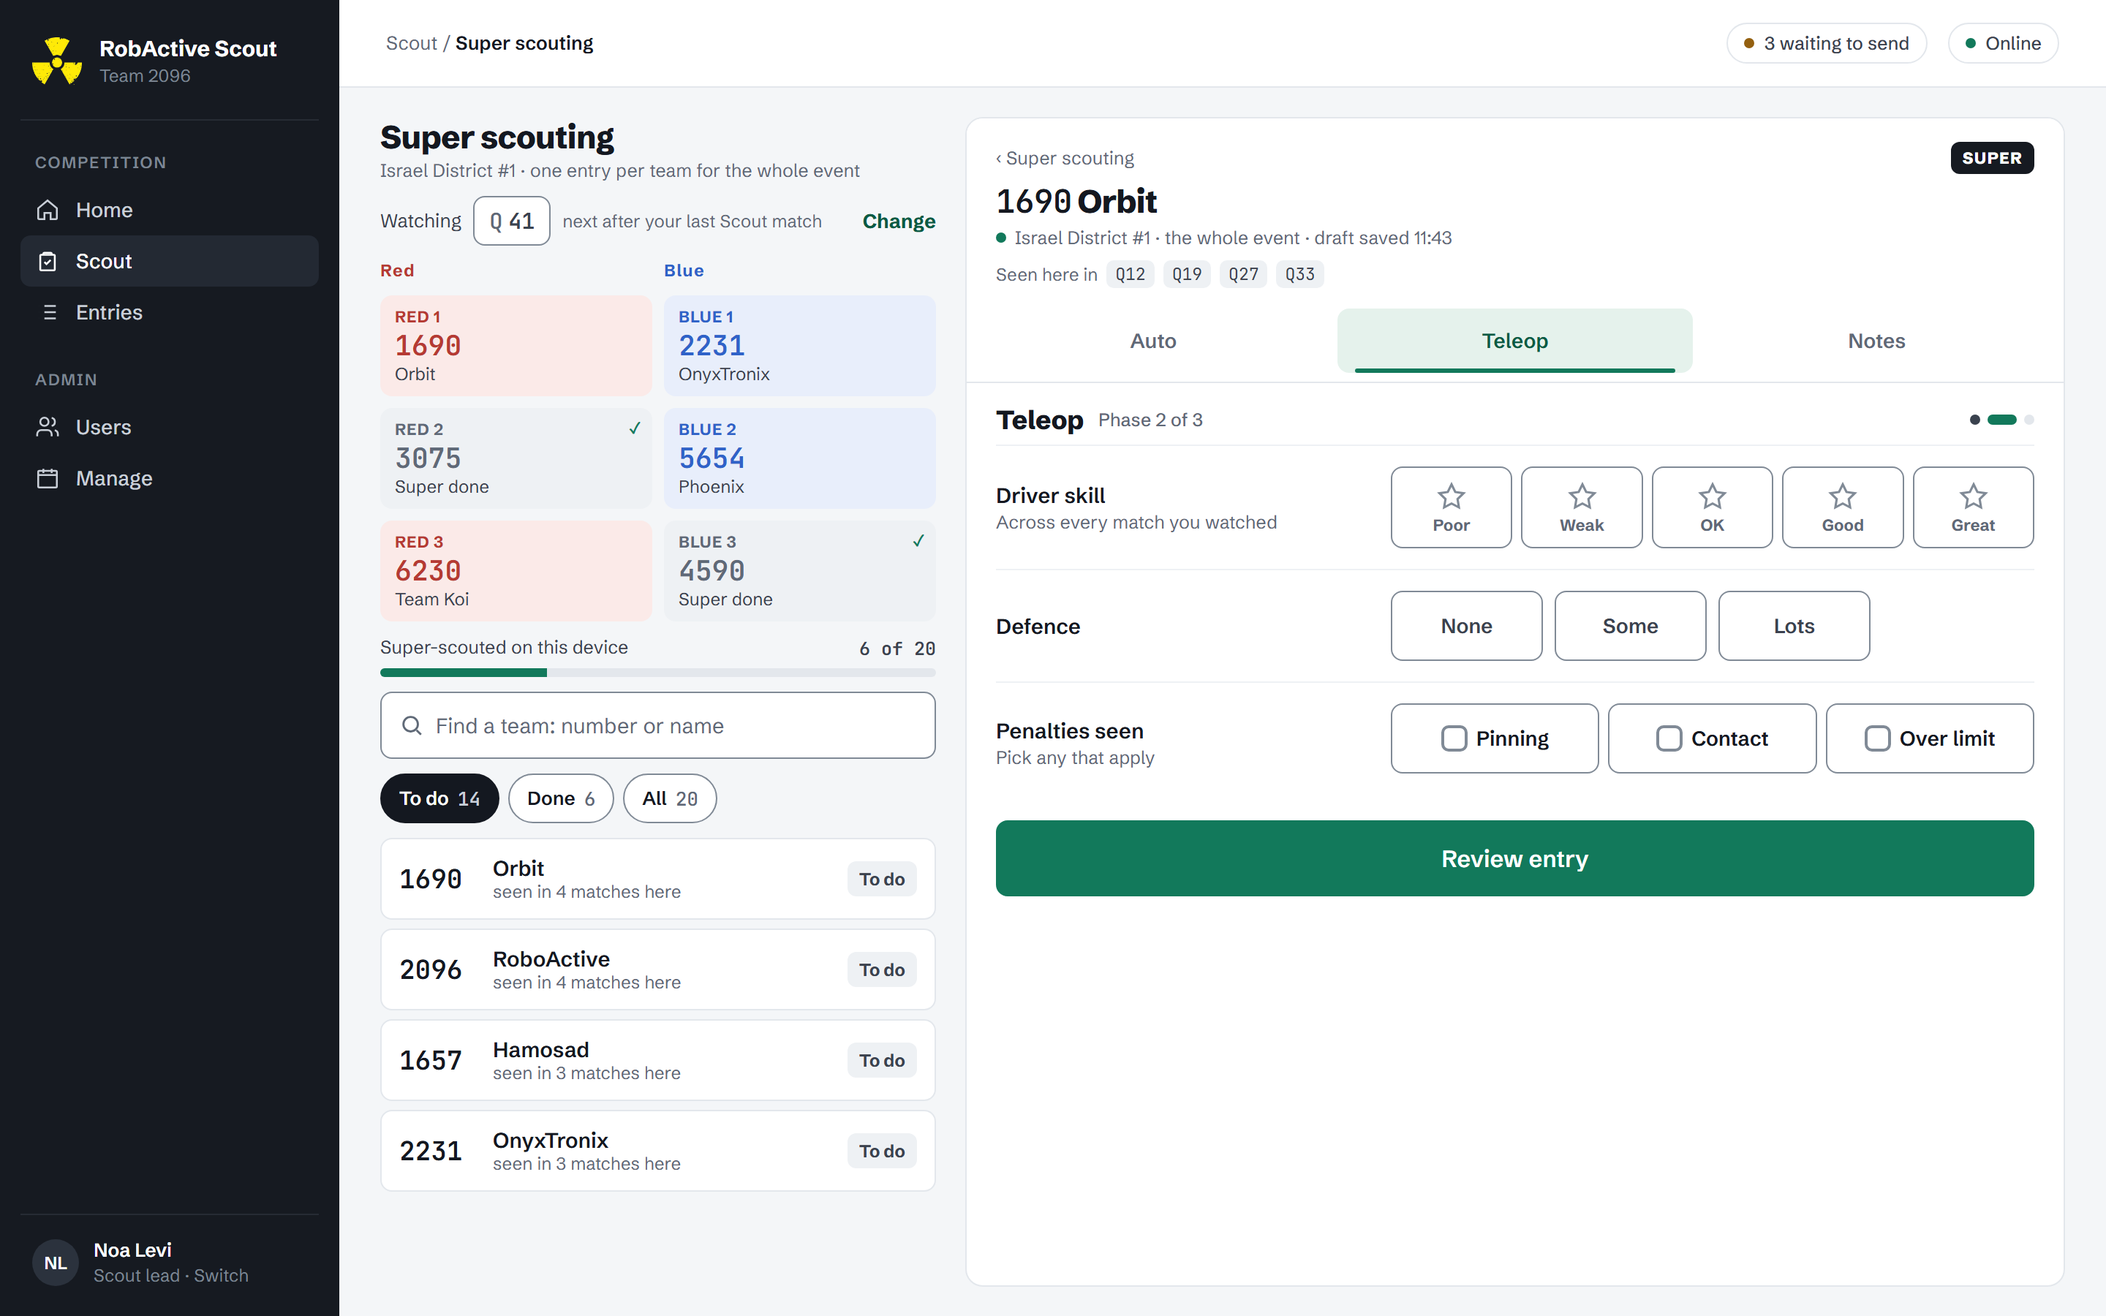
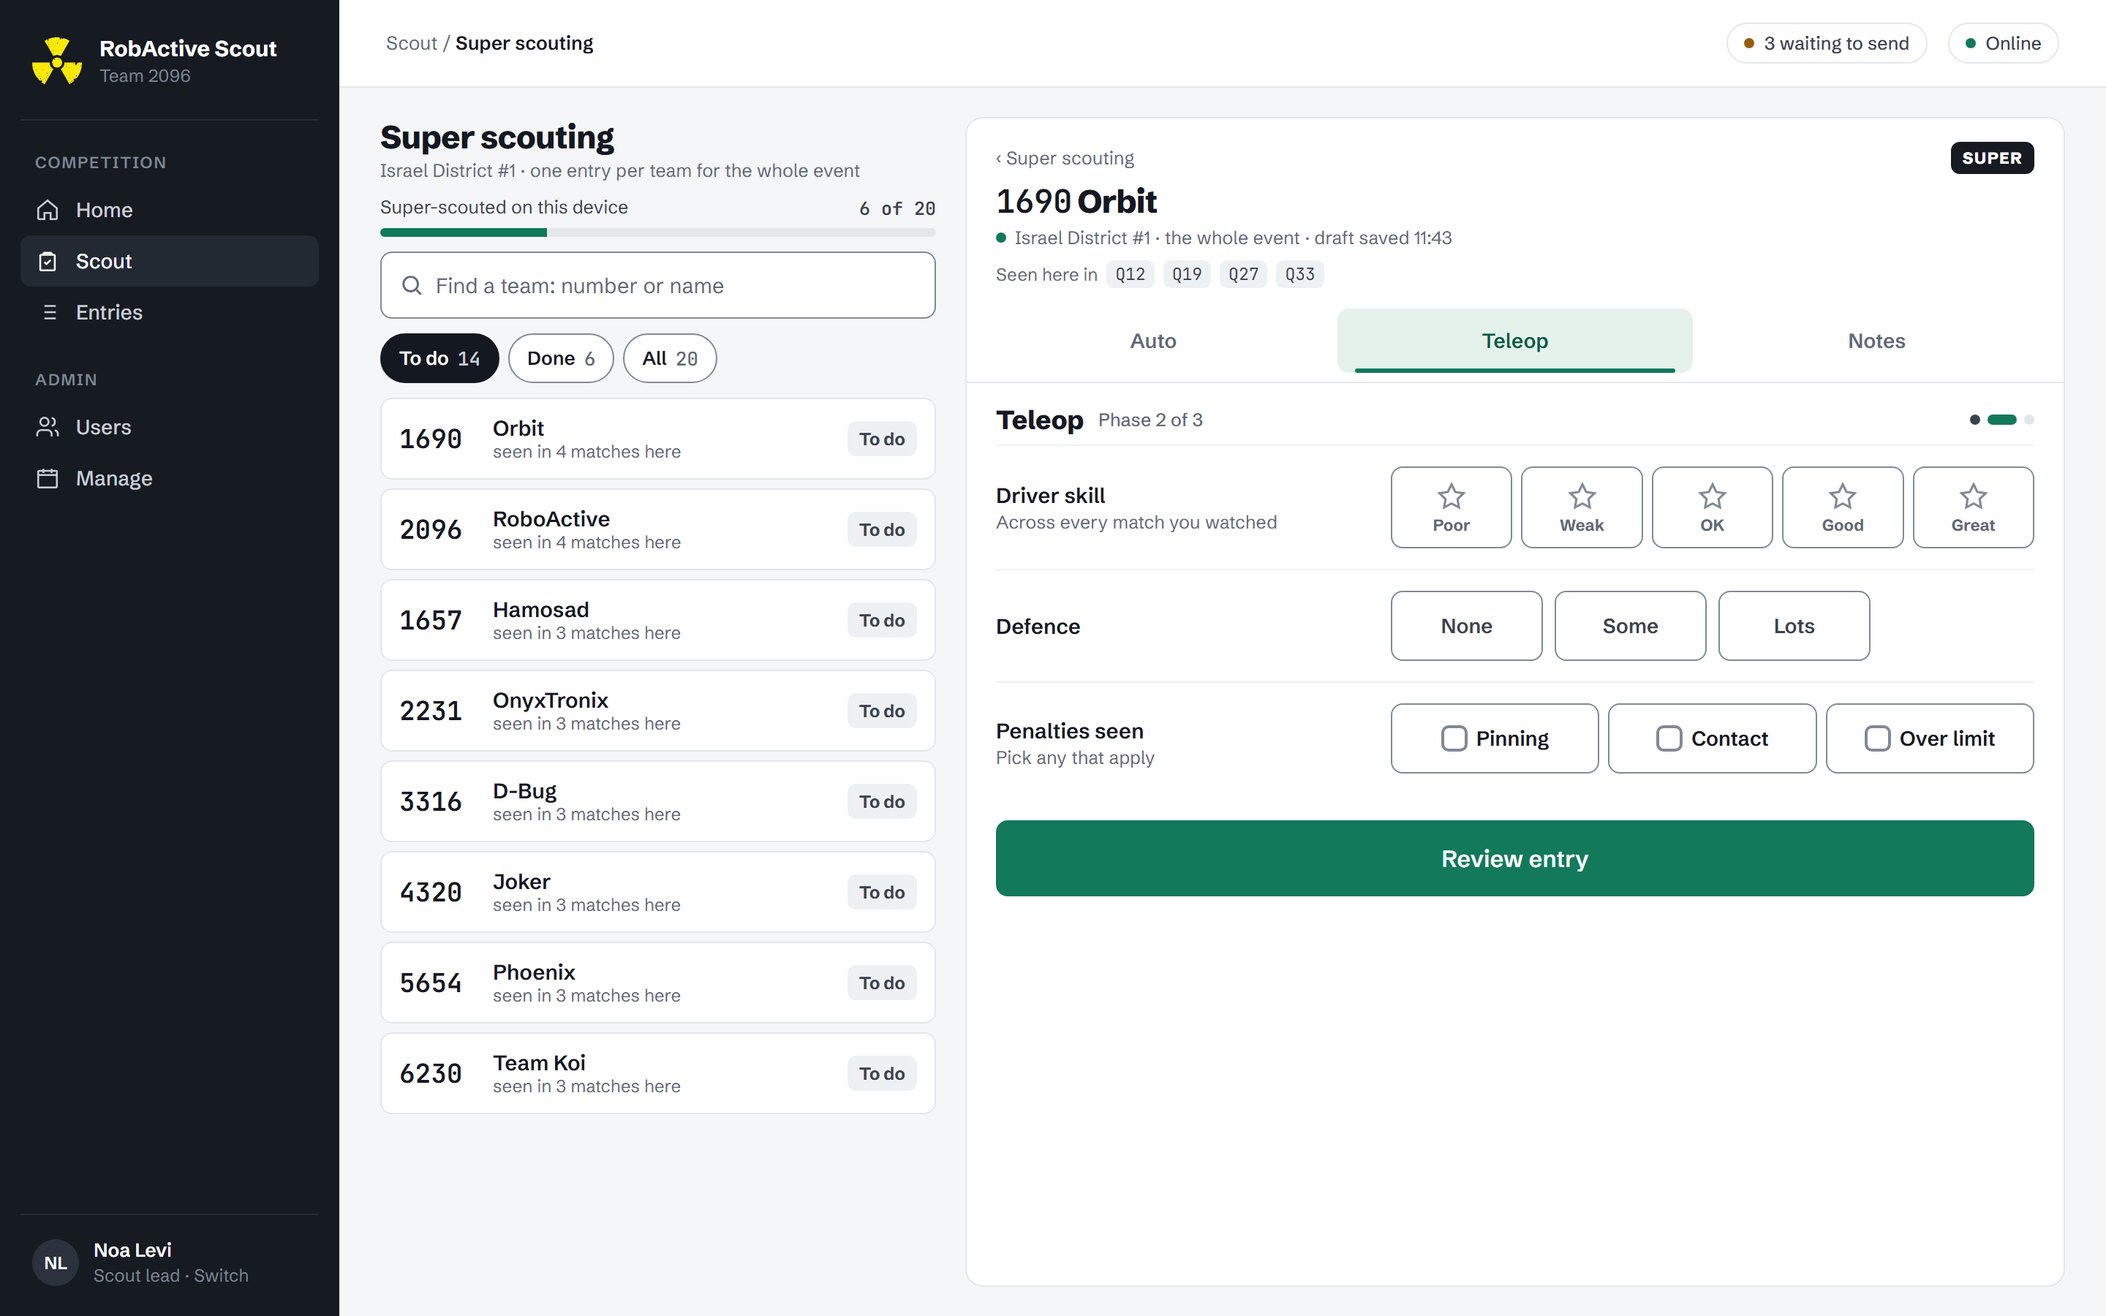
docs(design): super scouting without the watching tiles (user)

diff --git a/docs/design/pages/15-super/src/super.js b/docs/design/pages/15-super/src/super.js
@@ -78,11 +78,9 @@ window.SU = (() => {
   };
   const card = (items, layout) => `<div class="su-card"><h4>New in this variant</h4><p>Not in the spec today. For each: now · not now, but wanted · not at all.</p><ol>${items.map((i) => `<li><span>${i}</span></li>`).join('')}</ol><div class="lay">${layout}</div></div>`;
   const deskForm = (o = {}) => `<div class="card">${head(o)}${tabs3(1)}<div class="pane">${phead3('Teleop', 2)}${teleop(o)}</div><div class="ebar"><a class="btn primary block">Review entry</a></div></div>`;
-  // Final picker (A + C's watching tiles), chosen 2026-10-09.
+  // Final picker: variant A (2026-10-09; C's watching tiles added, then removed by the user the same day).
   const pickFinal = (o = {}) => `<div class="su-pad">${title()}
-      <div class="su-mline">Watching<span class="mn"><span>Q</span>41</span><span style="color:var(--muted);font-size:12px">next after your last Scout match</span><span class="link">Change</span></div>
-      <div class="cols">${lineupSuper()}</div>
-      ${prog()}${search(o.q)}${chips(o.filter || 'To do')}<div class="su-list">${(o.filter === 'Done' ? TEAMS.filter((t) => t[3]) : TEAMS.filter((t) => !t[3]).sort((a, b) => b[2] - a[2])).slice(0, o.n || 3).map(li).join('')}</div></div>`;
+      ${prog()}${search(o.q)}${chips(o.filter || 'To do')}<div class="su-list">${(o.filter === 'Done' ? TEAMS.filter((t) => t[3]) : TEAMS.filter((t) => !t[3]).sort((a, b) => b[2] - a[2])).slice(0, o.n || 7).map(li).join('')}</div></div>`;
   const confirm = () => `<div class="px-scrim"></div><div class="px-sheet"><span class="grab"></span><h3>Submit the super entry?</h3>
       <p><b style="color:var(--ink)">1690 Orbit</b> · ${EVENT} · the whole event. No match is recorded.</p>
       <div class="px-probs">

diff --git a/docs/design/pages/15-super/final/super-phone.html b/docs/design/pages/15-super/final/super-phone.html
@@ -11,8 +11,8 @@ const scout = P.screen({ title: 'Scout', body: `<div class="su-pad"><div class="
 const pick = P.screen({ title: 'Super scouting', body: U.pickFinal(), bar: false });
 const conf = P.screen({ title: 'Super scouting', body: U.formBody({ edit: false }), over: U.confirm(), bar: false });
 const fig = (h, c) => `<figure class="frame"><div class="phone" style="zoom:.78">${h}</div><figcaption>${c}</figcaption></figure>`;
-document.getElementById('root').innerHTML = `<div class="canvas" style="height:940px"><div class="canvas-head"><b>Super scouting — final · phone</b><span>Variant A with C's "Watching" tiles. One entry per team for the whole event: no match, alliance, robot status or timer.</span></div>
-  <div class="frames" style="gap:14px">${fig(scout, '1 · The way in: a card at the foot of Scout')}${fig(pick, '2 · The match you watch, then the to-do list')}${fig(U.form(), '3 · The super form')}${fig(U.form({ edit: true, time: '11:51' }), '4 · A done team reopens its entry')}${fig(conf, '5 · Confirm names team and event, no match')}</div></div>`;
+document.getElementById('root').innerHTML = `<div class="canvas" style="height:940px"><div class="canvas-head"><b>Super scouting — final · phone</b><span>Variant A. One entry per team for the whole event: no match, alliance, robot status or timer.</span></div>
+  <div class="frames" style="gap:14px">${fig(scout, '1 · The way in: a card at the foot of Scout')}${fig(pick, '2 · Pick a team: to do first, most seen first')}${fig(U.form(), '3 · The super form')}${fig(U.form({ edit: true, time: '11:51' }), '4 · A done team reopens its entry')}${fig(conf, '5 · Confirm names team and event, no match')}</div></div>`;
 
 </script>
 <script src="../../shell.js"></script>

diff --git a/docs/design/pages/15-super/final/super-desktop.html b/docs/design/pages/15-super/final/super-desktop.html
@@ -14,7 +14,7 @@ const fields = row('Driver skill', 'Across every match you watched', ctl(P.stars
   row('Penalties seen', 'Pick any that apply', ctl(P.multi('', ['Pinning', 'Contact', 'Over limit'], [])));
 const tabs3 = `<div class="ptabs" style="grid-template-columns:repeat(3,1fr)"><span>Auto</span><span class="on">Teleop</span><span>Notes</span></div>`;
 const form = `<div class="card">${U.head()}${tabs3}<div class="pane"><div class="phead"><b>Teleop</b><span class="pos">Phase 2 of 3</span><span class="dots"><i class="done"></i><i class="on"></i><i></i></span></div>${fields}</div><div class="ebar"><a class="btn primary block">Review entry</a></div></div>`;
-document.getElementById('root').innerHTML = `<div class="desk final"><div data-desk-shell="scout" data-crumb="Scout / <b>Super scouting</b>"><div class="su-desk"><div>${U.pickFinal({ n: 4 })}</div>${form}</div></div></div>`;
+document.getElementById('root').innerHTML = `<div class="desk final"><div data-desk-shell="scout" data-crumb="Scout / <b>Super scouting</b>"><div class="su-desk"><div>${U.pickFinal({ n: 8 })}</div>${form}</div></div></div>`;
 
 </script>
 <script src="../../shell.js"></script>

diff --git a/docs/spec/frc-scouting-app-spec.md b/docs/spec/frc-scouting-app-spec.md
@@ -1491,7 +1491,7 @@ Decisions get recorded here as topics close, so Claude Code (and future you) can
 
 | Date | Topic | Decision | Rationale |
 |---|---|---|---|
-| 2026-10-09 | 6 / 16 | **Super scouting page designed (variant A + C's "Watching" tiles).** Reached from a card on Scout; the six teams of the match being watched as station tiles (display only, no match stored); progress, search, To do / Done / All chips and a roster list ordered by matches seen here; "Seen here in Q12 · Q19…" on the form; the confirmation states no match is recorded. SPEC-FINAL v1.24 §8.1. | The user picked the list for working through the roster, and took the match tiles because they are cheap: they reuse Scout's tiles and the line-up already on the device, and match how super scouters watch. Saying "no match is recorded" on the confirmation heads off the confusion a match number on this page could cause **[RAISED BY ME]**. |
+| 2026-10-09 | 6 / 16 | **Super scouting page designed (variant A).** Reached from a card on Scout; progress, search, To do / Done / All chips and a roster list ordered by matches seen here; "Seen here in Q12 · Q19…" on the form; the confirmation states no match is recorded. SPEC-FINAL v1.24 §8.1. | The user picked the list for working through the roster. C's "Watching" match tiles were added, then dropped by the user the same day: a match number on a page whose entries store none was more confusing than useful. Saying "no match is recorded" on the confirmation heads off the confusion a match number on this page could cause **[RAISED BY ME]**. |
 | 2026-10-09 | 6 / 16 | **Phase 1 E's small parts designed** (`docs/design/pages/14-entry-parts/final/`): the remaining field types (rating stars = boxed stars with words, picked from four), the sticky match timer (made smaller; reset with undo), the range block marked as you type in amber plus a problems list with Go to on Review, draft Resume / Discard, "Practice a match" on Scout with a practice strip and Finish practice, and desktop field rows. SPEC-FINAL v1.23 also corrects §8.2's "collapsible phase sections" to the phase tabs the Entry design already uses. | One design per part, because each reuses the Entry page's locked components. The range block is amber because red is the red alliance **[RAISED BY ME]**. Discard stops an abandoned draft lingering forever, and the practice card gives practice a way in, which the plan only named as a route **[RAISED BY ME]**, both accepted. The §8.2 wording had drifted from the closed Entry design since 2026-10-06 **[RAISED BY ME]**. |
 | 2026-10-09 | 3 | **Flipping `is_ordinal` on a select is an in-place edit; it never creates a form version.** Open since the Phase 1 D review (finding #8). | The option values and their order are unchanged, so every collected entry still holds a valid value; the flag only tells analysis whether the order is a rank. The plan's in-place column list already names `is_ordinal`. Decided by the user. |
 | 2026-10-09 | 16 | **The initial-JS budget is 212 KB gzip** (was 205 KB, 2026-10-07). | The form schemas in the shared `API` map (Phase 1 D server half) put it at 207.0 KB before the client half; the builder itself is lazy and added 1.1 KB (208.1 KB). 212 = measured + headroom, as 205 was. Decided by the user. |
@@ -1635,7 +1635,7 @@ Every edit is logged here so changes can be audited without reprinting the docum
 
 | Version | Date | Sections touched | Change |
 |---|---|---|---|
-| v0.75 | 2026-10-09 | header, 21, 23 · SPEC-FINAL v1.24 (§8.1) · THEME.md · IMPLEMENTATION-PLAN v1.9 (1.36) | **Super scouting page designed** (list + watching tiles, progress, seen-here chips). |
+| v0.75 | 2026-10-09 | header, 21, 23 · SPEC-FINAL v1.24 (§8.1) · THEME.md · IMPLEMENTATION-PLAN v1.9 (1.36) | **Super scouting page designed** (team list, progress, seen-here chips). |
 | v0.74 | 2026-10-09 | header, 21, 23 · SPEC-FINAL v1.23 (§8.2–§8.5, §15.1) · THEME.md · IMPLEMENTATION-PLAN v1.8 (1.33, 1.34, 1.36, 1.37) | **Entry parts designed** (field types, match timer, range block, drafts and practice); §8.2 phases are tabs. |
 | v0.73 | 2026-10-09 | header, 21, 23 · BUILD-CONTEXT §12.5 · `scripts/check-bundle.mjs` | **`is_ordinal` flips in place** (no new version) and **the initial-JS budget is 212 KB**; both decided by the user at the end of Phase 1 D. |
 | v0.72 | 2026-10-08 | header, 7.5, 23 · IMPLEMENTATION-PLAN (1.40) | **§7.5 item 5 added: form deletes never reach a device.** Field, version, scoring-rule and form deletes (with a form's entries) are hard deletes the delta pull cannot see, so a device keeps a removed scoring rule and over-scores offline. Open for phase 1F; task 1.40 carries the pointer. **[RAISED BY ME]** |

diff --git a/docs/design/pages/15-super/final/README.md b/docs/design/pages/15-super/final/README.md
@@ -4,9 +4,9 @@
 - phone: `super-phone.png` — the Scout card, the team picker, the form, an existing entry reopened, and the confirmation
 - desktop: `super-desktop.png` — the picker on the left, the form on the right
 
-The `.html` files are the source, and `bash docs/design/pages/render.sh 15-super final` re-renders them. Shared CSS and JS are in `../src/`. The page also uses `../../14-entry-parts/src/` (fields, desktop rows) and `../../02-scout/src/` (station tiles). Spec: SPEC-FINAL v1.24 §8.1; living spec v0.75. Task 1.36.
+The `.html` files are the source, and `bash docs/design/pages/render.sh 15-super final` re-renders them. Shared CSS and JS are in `../src/`. The page also uses `../../14-entry-parts/src/` (fields, desktop rows). Spec: SPEC-FINAL v1.24 §8.1; living spec v0.75. Task 1.36.
 
-Chosen: **variant A ("Team list")** with **variant C's "Watching" match tiles** on top (user, 2026-10-09: "do what you offered").
+Chosen: **variant A ("Team list")**. Variant C's "Watching" match tiles were added and then removed the same day (user, 2026-10-09).
 
 ## The rule (SPEC-FINAL §8.1)
 
@@ -20,14 +20,9 @@ A **Super scouting** card at the foot of Scout: a dark icon square with an eye, 
 ## The picker
 
 1. "Super scouting" and "Israel District #1 · one entry per team for the whole event".
-2. **Watching Q41** (mono, with a Q prefix), "next after your last Scout match", and **Change**. Under it, that match's six teams as the Scout station tiles (red left, blue right).
-   - A team already super-scouted shows "Super done" and a ✓ on a grey tile.
-   - Tapping a tile opens that team.
-   - The match only chooses which teams to show; **the entry stores no match**.
-   - With no line-up on this device, a note says so and the list below is the way in.
-3. **Progress:** "Super-scouted on this device · 6 of 20", with a thin accent bar.
-4. **Search** (number or name), then the chips **To do · Done · All** with counts. To do is preselected.
-5. **The list:** rows ≥ 56 px — team number in mono, name, "seen in 4 matches here", and a status tag at the right ("To do" grey, or "✓ Done 11:20" green).
+2. **Progress:** "Super-scouted on this device · 6 of 20", with a thin accent bar.
+3. **Search** (number or name), then the chips **To do · Done · All** with counts. To do is preselected.
+4. **The list:** rows ≥ 56 px — team number in mono, name, "seen in 4 matches here", and a status tag at the right ("To do" grey, or "✓ Done 11:20" green).
    - To do is ordered by matches seen on this device, most first.
    - Done rows dim the number and reopen the entry.
 
@@ -51,7 +46,7 @@ A **Super scouting** card at the foot of Scout: a dark icon square with an eye, 
 | Feature | Decision |
 |---|---|
 | Team list (A) | Now |
-| "Watching Q41" with the six station tiles (from C) | Now — "cheap" (user): it reuses Scout's tiles and the device's line-up |
+| "Watching Q41" with the six station tiles (from C) | Not at all (added, then removed by the user, 2026-10-09) |
 | "Seen here in Q12 · Q19…" on the form | Now |
 | To do / Done / All chips with counts, and the progress line | Now |
 | To-do teams ordered by matches seen here | Now |

diff --git a/docs/plans/IMPLEMENTATION-PLAN.md b/docs/plans/IMPLEMENTATION-PLAN.md
@@ -14015,7 +14015,7 @@ git add -A && git commit -m "feat: add the position picker and cycle path with a
 
 - [ ] **Step 2: Implement**
 
-**The super-scouting entry point (SPEC-FINAL §8.1).** A second, separate route at `/super`, because a super record is one per **(team, event)**, not per match. **Design closed 2026-10-09 — match `docs/design/pages/15-super/final/` and its README:** a Super scouting card at the foot of Scout; the picker = "Watching Q41" (Scout's next match, changeable) with that match's six station tiles (display only), the progress line, search, To do / Done / All chips and the roster list ordered by matches seen on this device; the form header with the SUPER tag and "Seen here in …" chips; the confirmation states no match is recorded. All of it is derived from what the device holds — no new server query. It asks for three things and no more:
+**The super-scouting entry point (SPEC-FINAL §8.1).** A second, separate route at `/super`, because a super record is one per **(team, event)**, not per match. **Design closed 2026-10-09 — match `docs/design/pages/15-super/final/` and its README:** a Super scouting card at the foot of Scout; the picker = the progress line, search, To do / Done / All chips and the roster list ordered by matches seen on this device; the form header with the SUPER tag and "Seen here in …" chips; the confirmation states no match is recorded. All of it is derived from what the device holds — no new server query. It asks for three things and no more:
 
 1. the active season's `super` form, resolved by `kind` — never chosen by the scouter;
 2. the **team**, from the event roster;

diff --git a/docs/spec/SPEC-FINAL.md b/docs/spec/SPEC-FINAL.md
@@ -919,7 +919,7 @@ This is where 95% of usage happens: a student in a loud arena, phone in one hand
 
 If a super entry for that (team, event) already exists on the device, the app opens it for editing rather than starting a second one. The duplicate path of §9.5 exists for the case two devices create one independently.
 
-*Design (v1.24, `docs/design/pages/15-super/final/`):* reached from a **Super scouting** card on Scout. The picker shows the six teams of the match being watched (the next after the last Scout match, changeable) as station tiles — **choosing which teams to show only; the entry stores no match** — then a progress line ("6 of 20 super-scouted on this device"), search and **To do · Done · All** chips over the roster, to-do teams ordered by how many matches this device saw them in. The form's header names the team, the event, and the matches this device scouted the team in ("Seen here in Q12 · Q19…"); a reopened entry says so. The confirmation names the team and the event and says no match is recorded.
+*Design (v1.24, `docs/design/pages/15-super/final/`):* reached from a **Super scouting** card on Scout. The picker shows a progress line ("6 of 20 super-scouted on this device"), search and **To do · Done · All** chips over the roster, to-do teams ordered by how many matches this device saw them in. The form's header names the team, the event, and the matches this device scouted the team in ("Seen here in Q12 · Q19…"); a reopened entry says so. The confirmation names the team and the event and says no match is recorded.
 
 ### 8.2 The entry form
 

diff --git a/docs/design/README.md b/docs/design/README.md
@@ -46,7 +46,7 @@ Pages go **one at a time**. At this stage that means only the pages that exist t
 | 12 | Form builder (planned page) | `/admin/forms/:formId` | **Closed** 2026-10-08, variant D (+ the scouter's map pop-ups) | 1.29–1.32; maps in 1.34–1.35 |
 | 13 | Forms list (planned page) | `/admin/forms` | **Closed** 2026-10-08, A + C's versions | 1.29 |
 | 14 | Entry parts (Phase 1 E, on the Entry page) | `/entry/…`, `/scout` | **Closed** 2026-10-09: field types, match timer, range block, drafts and practice | 1.33, 1.34, 1.36, 1.37 |
-| 15 | Super scouting | `/super` | **Closed** 2026-10-09, A + C's "Watching" tiles | 1.36 |
+| 15 | Super scouting | `/super` | **Closed** 2026-10-09, variant A | 1.36 |
 
 The phone shell (`pages/11-phone-shell/final/`, not a numbered route) is coded in RB.6. All were built in the redesign build (`docs/plans/REDESIGN-BUILD-PLAN.md`, RB.1–RB.20), and RB.19 reviewed each against its final images. `/context` is only a redirect to `/`. Update this table when a page closes.
 
